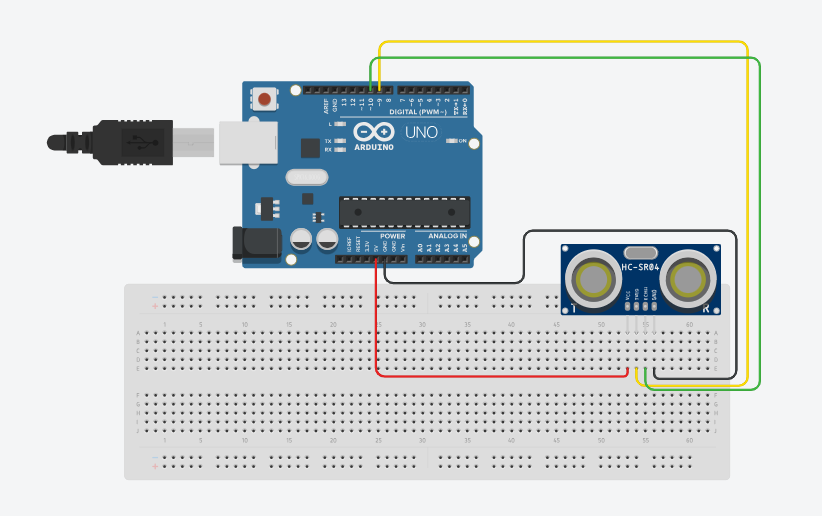
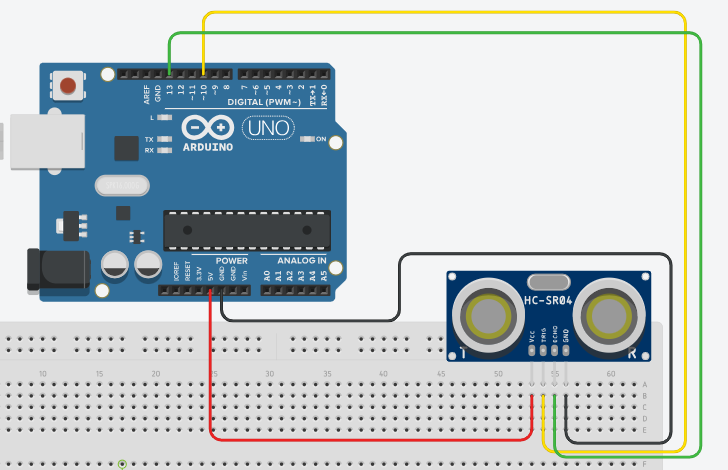
Add files via upload

diff --git a/assets/ultrasonic-sensor.html b/assets/ultrasonic-sensor.html
@@ -70,7 +70,6 @@
                 <li>Breadboard</li>
                 <li>Jumper Wires</li>
                 <li>USB Cable</li>
-                <li>Optional: LED for visual feedback</li>
             </ul>
         </section>
         <!-- Section 3 -->
@@ -90,10 +89,10 @@
                   Connect the GND pin of the sensor to the GND pin on Arduino.
                 </li>
                 <li>
-                  Connect the TRIG pin to digital pin 9 on Arduino.
+                  Connect the TRIG pin to digital pin 10 on Arduino.
                 </li>
                 <li>
-                  Connect the ECHO pin to digital pin 10 on Arduino.
+                  Connect the ECHO pin to digital pin 13 on Arduino.
                 </li>
                 <li>
                   Double-check all connections before powering up the Arduino.
@@ -126,15 +125,14 @@
      - Breadboard 
      - Jumper Wires 
      - USB Cable 
-     - Optional: LED for visual feedback 
    Author: Circuit Creation RN
 
 */
 //This code reads the distance from the HC-SR04 ultrasonic sensor and prints it to the Serial Monitor in centimeters.
 
 
-const int trigPin = 9;
-const int echoPin = 10;
+const int trigPin = 10;
+const int echoPin = 13;
 
 void setup() {
   Serial.begin(9600);
@@ -194,7 +192,7 @@ void loop() {
 
             <h3>Defining Pins</h3>
             <p>
-                <code>const int trigPin = 9;</code> and <code>const int echoPin = 10;</code> 
+                <code>const int trigPin = 10;</code> and <code>const int echoPin = 13;</code> 
                 define which pins the sensor is connected to.
             </p>
 
@@ -236,7 +234,7 @@ void loop() {
             <ul class="mistakes-list">
                 <li>
                     <strong>Sensor not detecting objects:</strong>
-                    Check that the TRIG and ECHO pins are correctly connected to pins 9 and 10.
+                    Check that the TRIG and ECHO pins are correctly connected to pins 10 and 13.
                 </li>
 
                 <li>
